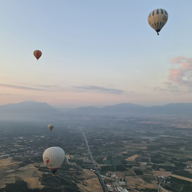
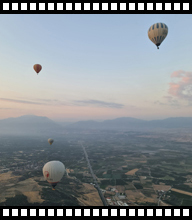
Hot air balloon flight 2

diff --git a/diary.htm b/diary.htm
@@ -57,14 +57,6 @@ Today I flew in a hot air balloon.
          <tr>
             <td class="text" align=center>
 <br>
-<img src="pics/perforation_top.jpg" alt="" border="0">
-<img src="pics/separator.gif" alt="" border="0">
-<img src="pics/perforation_top.jpg" alt="" border="0">
-<img src="pics/separator.gif" alt="" border="0">
-<img src="pics/perforation_top.jpg" alt="" border="0">
-<img src="pics/separator.gif" alt="" border="0">
-<img src="pics/perforation_top.jpg" alt="" border="0">
-<br>
 <a target = "_blank" href="pics/20250824_1.jpg"><img src="pics/20250824_1_s.jpg" alt="Фото 1" border="0"></a>
 <img src="pics/separator.gif" alt="" border="0">
 <a target = "_blank" href="pics/20250824_2.jpg"><img src="pics/20250824_2_s.jpg" alt="Фото 2" border="0"></a>
@@ -72,18 +64,11 @@ Today I flew in a hot air balloon.
 <a target = "_blank" href="pics/20250824_3.jpg"><img src="pics/20250824_3_s.jpg" alt="Фото 3" border="0"></a>
 <img src="pics/separator.gif" alt="" border="0">
 <a target = "_blank" href="pics/20250824_4.jpg"><img src="pics/20250824_4_s.jpg" alt="Фото 4" border="0"></a>
-<br>
-<img src="pics/perforation_bottom.jpg" alt="" border="0">
-<img src="pics/separator.gif" alt="" border="0">
-<img src="pics/perforation_bottom.jpg" alt="" border="0">
-<img src="pics/separator.gif" alt="" border="0">
-<img src="pics/perforation_bottom.jpg" alt="" border="0">
-<img src="pics/separator.gif" alt="" border="0">
-<img src="pics/perforation_bottom.jpg" alt="" border="0">
             </td>
          </tr>
          <tr>
             <td class="text">
+<br>
 I received this certificate:
             </td>
          </tr>

diff --git a/diary_ru.htm b/diary_ru.htm
@@ -57,14 +57,6 @@
          <tr>
             <td class="text" align=center>
 <br>
-<img src="pics/perforation_top.jpg" alt="" border="0">
-<img src="pics/separator.gif" alt="" border="0">
-<img src="pics/perforation_top.jpg" alt="" border="0">
-<img src="pics/separator.gif" alt="" border="0">
-<img src="pics/perforation_top.jpg" alt="" border="0">
-<img src="pics/separator.gif" alt="" border="0">
-<img src="pics/perforation_top.jpg" alt="" border="0">
-<br>
 <a target = "_blank" href="pics/20250824_1.jpg"><img src="pics/20250824_1_s.jpg" alt="Фото 1" border="0"></a>
 <img src="pics/separator.gif" alt="" border="0">
 <a target = "_blank" href="pics/20250824_2.jpg"><img src="pics/20250824_2_s.jpg" alt="Фото 2" border="0"></a>
@@ -72,18 +64,11 @@
 <a target = "_blank" href="pics/20250824_3.jpg"><img src="pics/20250824_3_s.jpg" alt="Фото 3" border="0"></a>
 <img src="pics/separator.gif" alt="" border="0">
 <a target = "_blank" href="pics/20250824_4.jpg"><img src="pics/20250824_4_s.jpg" alt="Фото 4" border="0"></a>
-<br>
-<img src="pics/perforation_bottom.jpg" alt="" border="0">
-<img src="pics/separator.gif" alt="" border="0">
-<img src="pics/perforation_bottom.jpg" alt="" border="0">
-<img src="pics/separator.gif" alt="" border="0">
-<img src="pics/perforation_bottom.jpg" alt="" border="0">
-<img src="pics/separator.gif" alt="" border="0">
-<img src="pics/perforation_bottom.jpg" alt="" border="0">
             </td>
          </tr>
          <tr>
             <td class="text">
+<br>
 Выдали сертификат:
             </td>
          </tr>
